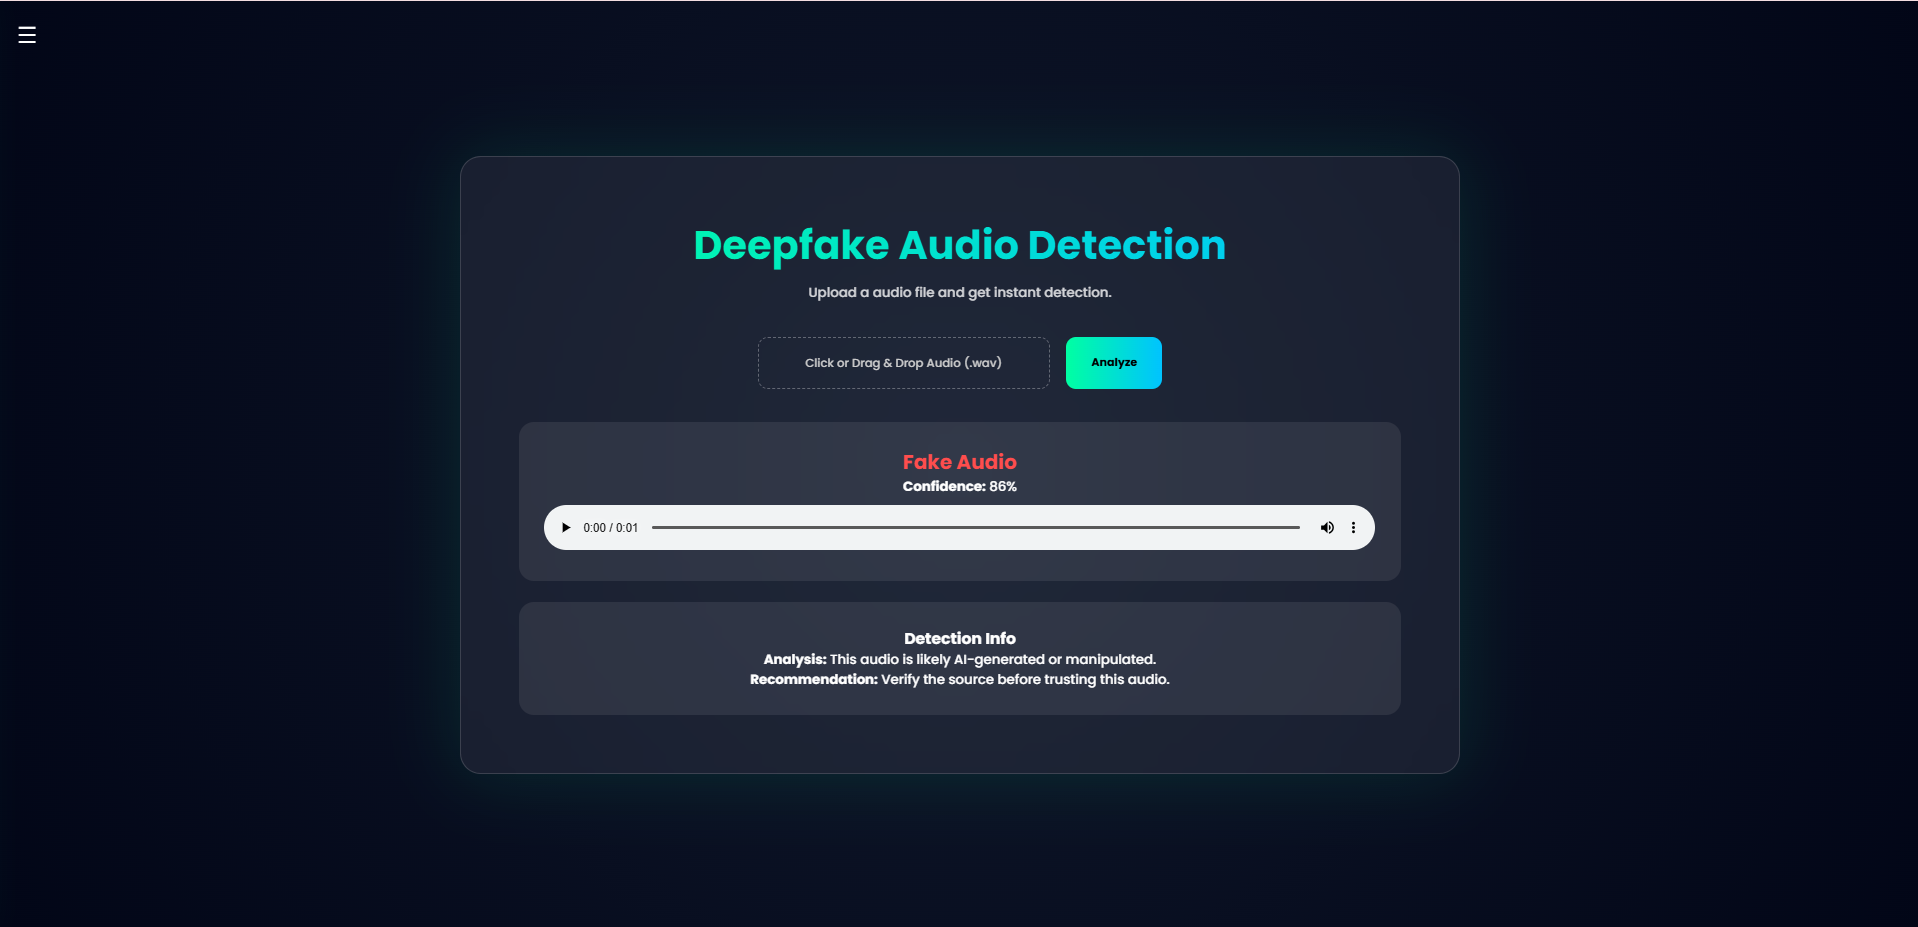
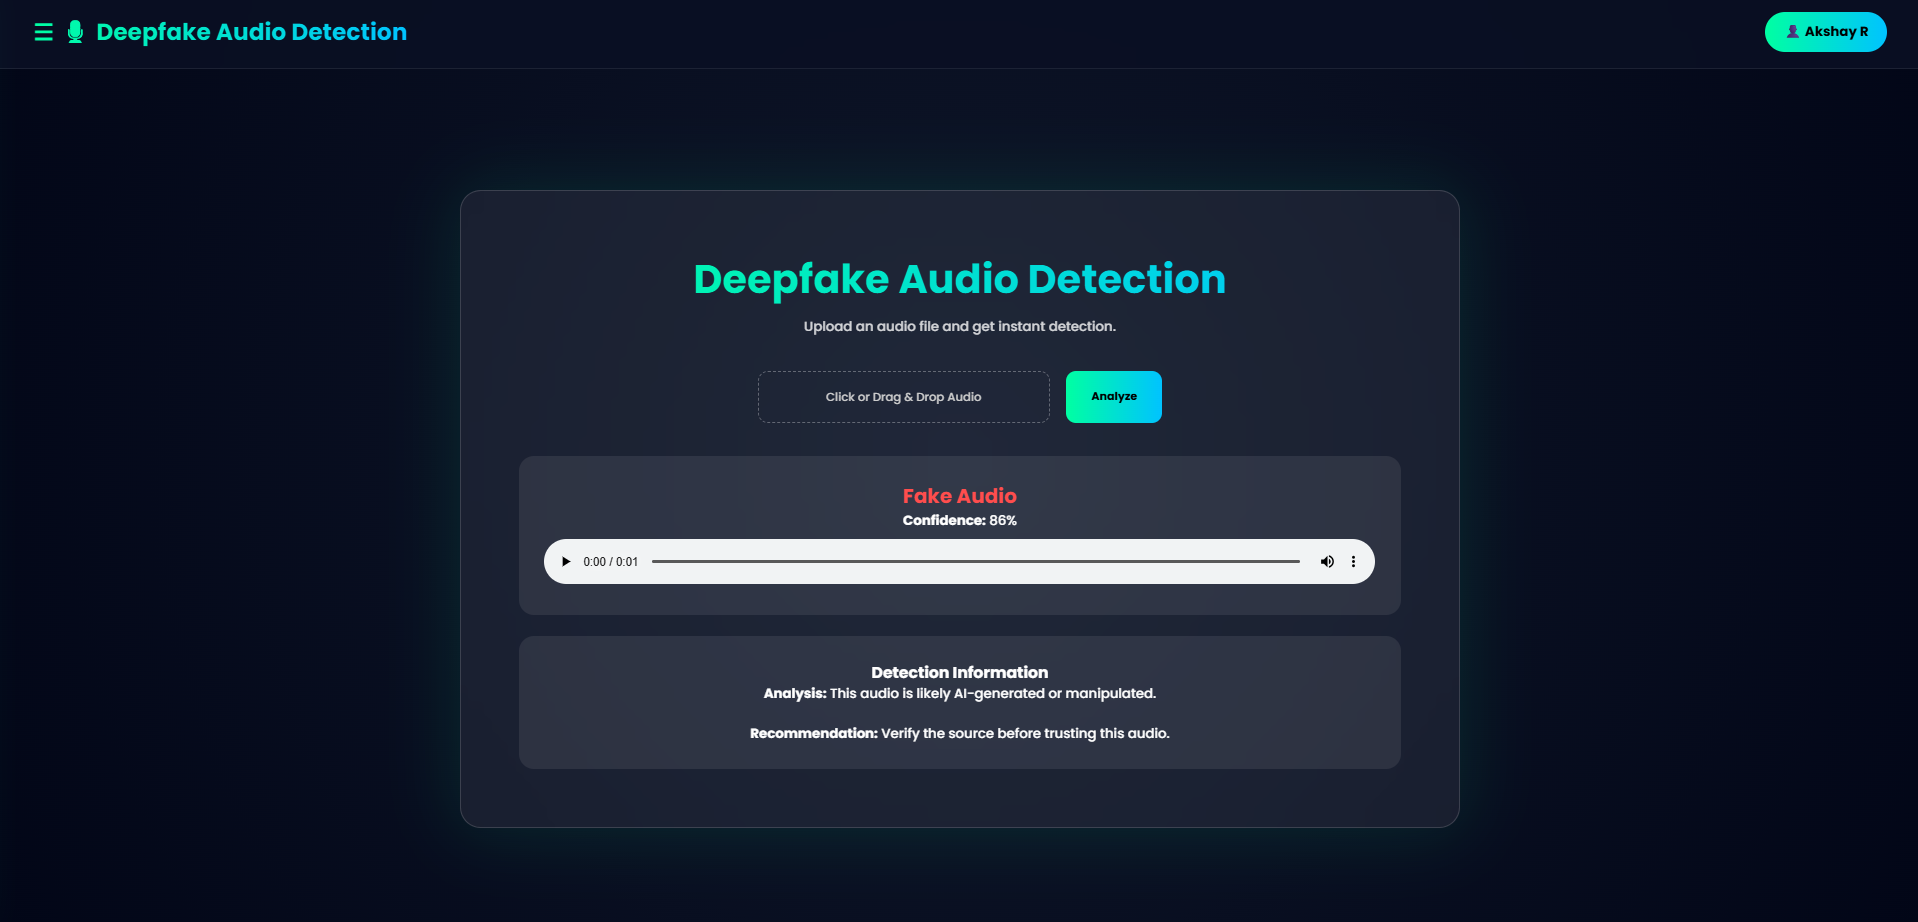
docs: update README with authentication, MongoDB integration and profile management

diff --git a/README.md b/README.md
@@ -99,6 +99,9 @@ The system utilizes cutting-edge Machine Learning techniques, Digital Signal Pro
 - ✅ MFCC & LFCC Feature Engineering
 - ✅ Real-Time Audio Analysis
 - ✅ Browser-Based Audio Recording
+- ✅ User Authentication System
+- ✅ MongoDB Database Integration
+- ✅ Profile Management
 - ✅ Confidence-Based Predictions
 
 ### 🚀 Key Highlights
@@ -159,18 +162,57 @@ Deepfake Audio Detection demonstrates the practical application of Artificial In
 ### Browser Audio Recording
 <img src="https://raw.githubusercontent.com/Akshay001-A/Deepfake-Audio-Detection/main/static/images/record.png" width="100%"/>
 
+### User Registration
+<img src="https://raw.githubusercontent.com/Akshay001-A/Deepfake-Audio-Detection/main/static/images/register.png" width="100%"/>
+
+### User Login
+<img src="https://raw.githubusercontent.com/Akshay001-A/Deepfake-Audio-Detection/main/static/images/login.png" width="100%"/>
+
+### User Profile
+<img src="https://raw.githubusercontent.com/Akshay001-A/Deepfake-Audio-Detection/main/static/images/profile.png" width="100%"/>
+
 ---
 
 ## Features
-- **Real vs. Fake Classification** – Accurate distinction between authentic and AI‑generated speech.
-- **Confidence Scoring** – Probability score for each prediction.
-- **AI‑Generated Voice Detection** – Specialized models to spot synthetic speech artifacts.
-- **In‑Browser Playback** – Seamless audio playback after upload or recording.
-- **Detailed Analysis** – Actionable insights and recommendations.
-- **Real‑Time Processing** – Near‑instant predictions for an interactive experience.
-- **Browser Recording** – Record, pause, resume, re‑record, download, and playback within the browser.
-- **Drag‑&‑Drop Upload** – Supports WAV, MP3, and WEBM (auto‑converted via FFmpeg).
 
+### 🔐 Authentication System
+- User Registration
+- User Login
+- Password Hashing using Flask-Bcrypt
+- Session-Based Authentication
+- Secure Logout
+
+### 👤 User Profile
+- View Profile Information
+- Update Name & Email
+- Persistent MongoDB Storage
+
+### 🎧 Audio Detection
+- Real vs. Fake Classification
+- Confidence Scoring
+- AI-Generated Voice Detection
+- Detailed Analysis & Recommendations
+- Real-Time Prediction
+
+### 🎤 Audio Recording
+- Browser Audio Recording
+- Pause / Resume Recording
+- Re-record Audio
+- Download Recorded Audio
+- Audio Playback Support
+
+### 📂 Audio Upload
+- Drag & Drop Upload
+- WAV Support
+- MP3 Support
+- WEBM Support
+- Automatic FFmpeg Conversion
+
+### 🎨 User Interface
+- Responsive Design
+- Modern Dark Theme
+- Animated Sidebar Navigation
+- Mobile Friendly Layout
 ---
 
 ## 🛠 Technology Stack
@@ -185,6 +227,13 @@ Deepfake Audio Detection demonstrates the practical application of Artificial In
 ![HTML5](https://img.shields.io/badge/HTML5-E34F26?style=for-the-badge&logo=html5&logoColor=white)
 ![CSS3](https://img.shields.io/badge/CSS3-1572B6?style=for-the-badge&logo=css3&logoColor=white)
 ![JavaScript](https://img.shields.io/badge/JavaScript-F7DF1E?style=for-the-badge&logo=javascript&logoColor=black)
+
+### Authentication
+![Bcrypt](https://img.shields.io/badge/Bcrypt-Password%20Hashing-blue?style=for-the-badge)
+
+### Database
+![MongoDB](https://img.shields.io/badge/MongoDB-Database-green?style=for-the-badge)
+![PyMongo](https://img.shields.io/badge/PyMongo-Driver-success?style=for-the-badge)
 
 ### Machine Learning
 ![Scikit-Learn](https://img.shields.io/badge/Scikit--Learn-F7931E?style=for-the-badge&logo=scikitlearn&logoColor=white)
@@ -269,20 +318,29 @@ Deepfake-Audio-Detection/
 │
 ├── static/
 │   ├── css/
-│   ├── images/
-│   ├── uploads/
-│   └── recordings/
+│   │   ├── common.css
+│   │   ├── auth.css
+│   │   ├── home.css
+│   │   ├── landing.css
+│   │   ├── profile.css
+│   │   └── record.css
+│   │
+│   └── images/
 │
 ├── templates/
+│   ├── register.html
+│   ├── login.html
+│   ├── landing.html
 │   ├── home.html
-│   ├── index.html
 │   ├── record.html
-│   └── result.html
+│   └── profile.html
 │
-├── uploads/
+├── uploadaudio/
 │
 ├── app.py
+├── config.py
 ├── requirements.txt
+├── Dockerfile
 └── README.md
 ```
 
@@ -290,27 +348,32 @@ Deepfake-Audio-Detection/
 
 ## Requirements
 ```text
-flask
+Flask
 numpy
 librosa
 scikit-learn
 joblib
+pydub
 soundfile
-scipy
-ffmpeg
+Flask-Bcrypt
+pymongo
+dnspython
 ```
 Install them with `pip install -r requirements.txt`.
 
 ---
 
 ## Future Enhancements
-- ✅ Improve prediction accuracy
-- 🧠 Integrate CNN/LSTM deep‑learning models
-- ☁ Deploy to cloud platforms
-- 📱 Mobile application support
-- 🔐 User authentication system
-- 🎵 Additional audio format support
-- 🌍 Multi‑language audio detection
+
+- 🤖 Deep Learning Models (CNN, LSTM)
+- 🔊 Voice Cloning Detection
+- ☁ Cloud Deployment
+- 📱 Mobile Application
+- 📈 User Detection History
+- 🧠 AI Explanation Module
+- 🌍 Multi-language Support
+- 🔐 OTP-Based Authentication
+- 📊 Admin Dashboard
 
 ---
 
